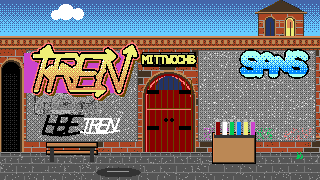
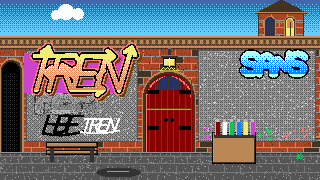
fix(grafik): keine echten Vereinsnamen im Spiel
Das Schild "MITTWOCHS" über dem Tor und der Zettel, der ein echtes
Kölner Graffiti-Projekt nannte, sind wieder raus. Es sah aus wie ein
Aushang im Bürgerzentrum und passte nicht zum Ton des Hofs, und ein
real existierender Jugendhilfeträger gehört nicht ungefragt in eine
Welt, in der es später um Heat und Erwischtwerden geht. Über dem Tor
hängt jetzt eine Hoflaterne.

Claude-Session: https://claude.ai/code/session_01NeHStqd8MhcAouiiJD2DsU

Changed region(s): [[0.4375, 0.2778, 0.625, 0.3889]]

diff --git a/scripts/lib/rooms-art.ts b/scripts/lib/rooms-art.ts
@@ -589,11 +589,14 @@ const jugendzentrum: Scene = (R) => {
   ] as [number, number][])
     grain(a, rx, 128, 28, 12, rc, 0.16, R);
 
-  // Schild über dem Tor: mittwochs wird gemalt
-  box(a, 142, 52, 54, 15, C.dark_grey, C.grey, C.black);
-  word(a, 143, 56, 7, "MITTWOCHS", C.yellow, C.black);
-  vline(a, 148, 49, 3, C.grey);
-  vline(a, 190, 49, 3, C.grey);
+  // Hoflaterne über dem Tor
+  rect(a, 168, 48, 3, 7, C.dark_grey);
+  hline(a, 168, 48, 3, C.grey);
+  rect(a, 161, 55, 17, 3, C.dark_grey);
+  hline(a, 161, 55, 17, C.grey);
+  box(a, 163, 58, 13, 9, C.yellow, C.white, C.orange, C.black);
+  vline(a, 169, 58, 9, C.white);
+  lightCone(a, 169, 67, 44, 24, C.yellow);
 
   // Das rote Hallentor [142,70,54,82]
   arch(a, 142, 70, 54, 82, C.tan);

diff --git a/docs/SPEC-GRAFIK.md b/docs/SPEC-GRAFIK.md
@@ -110,6 +110,9 @@ mit Ziegelgewände) in `scripts/lib/rooms-art.ts`.
 rechts vom Tor (`hall_wand` [204,58,104,72]), die fremden Werke links (`altes_piece` [26,50,112,92]).
 Neu ist der Hotspot `hallentor`.
 
-**Mittwochsmaler:** Über dem Tor hängt ein Schild „MITTWOCHS", und am Tor hängt ein Zettel mit der
-Workshop-Zeit. Das ist eine Verbeugung vor einem echten Kölner Graffiti-Projekt, kein Abbild: Unser
-Jugendzentrum ist ein erfundener Ort.
+**Keine echten Vereinsnamen im Spiel.** Kurz stand ein Schild „MITTWOCHS" über dem Tor und am Tor ein
+Zettel, der ein echtes Kölner Graffiti-Projekt nannte. Beides ist wieder raus: Es sah aus wie ein Aushang
+im Bürgerzentrum und passte nicht zum Ton („Hier wird gemalt, nicht geredet"), und ein real existierender
+Jugendhilfeträger gehört nicht ungefragt in eine Welt, in der es später um Heat und Erwischtwerden geht.
+Über dem Tor hängt jetzt eine Hoflaterne. Gebäude und Orte dürfen echten Kölner Vorbildern nachempfunden
+sein, Namen von Personen, Vereinen und Projekten nicht.

diff --git a/docs/CONTENT.md b/docs/CONTENT.md
@@ -1200,7 +1200,7 @@ hotspots:
     rect: [142, 70, 54, 82]
     untersuchen:
       - "Das rote Hallentor. Dahinter standen früher die Löschzüge, heute proben da Bands."
-      - "Am Tor hängt ein Zettel: mittwochs von vier bis sieben, Workshop von den Mittwochsmalern. Dosen gibt es vor Ort."
+      - "Zu. Aber der Hof ist offen, und die Wand daneben gehört allen."
 
   - id: dosen
     label: Karton
